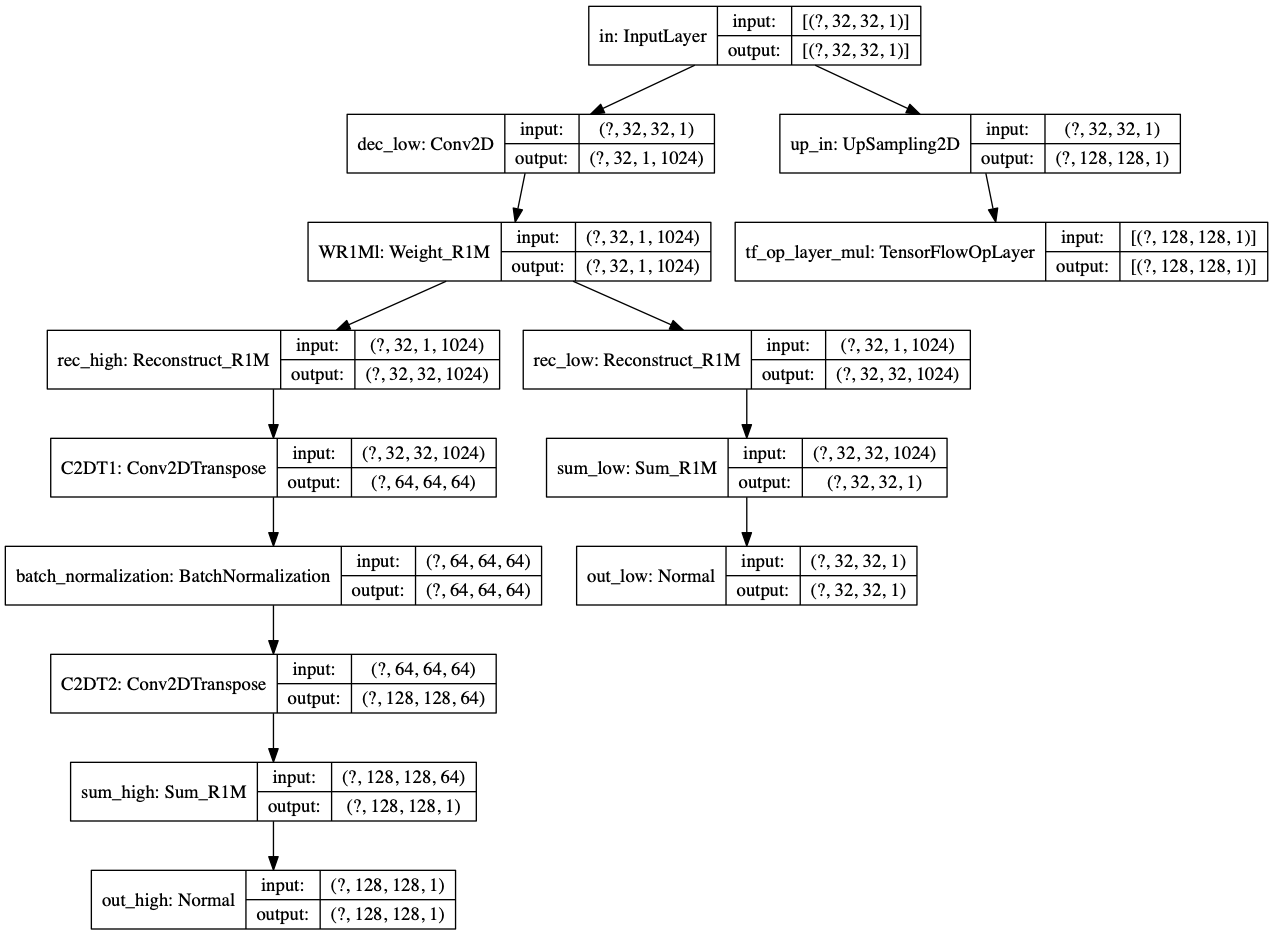
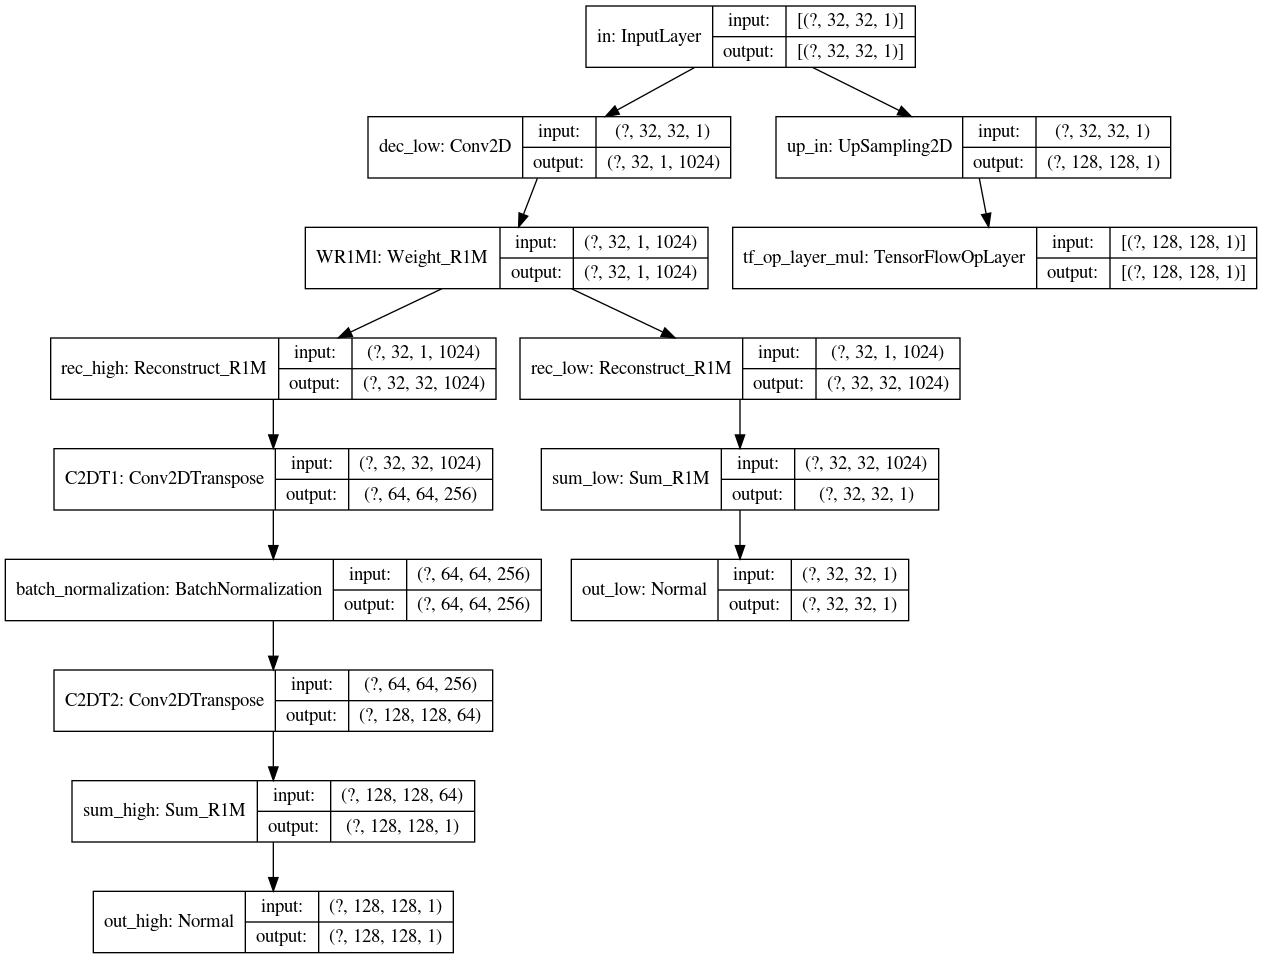
update

diff --git a/model.py b/model.py
@@ -106,18 +106,18 @@ def make_generator_model(len_low_size=16, scale=4):
     m_F = tf.constant(1/16.0, shape=(1, 1, 1, 1))
     up_o = tf.keras.layers.Multiply(name='scale_value_in')([up_o, m_F])
 
-    #up_1 = tf.keras.layers.UpSampling2D(size=(4, 1), data_format='channels_last', name='upsample_low')(WeiR1Ml)
-    #m_F = tf.constant(1/4.0, shape=(1, 1, 1, 1))
-    #up_1 = tf.keras.layers.Multiply(name='scale_value_high')([up_1, m_F])
-    Rech = Reconstruct_R1M(1024, name='rec_high')(WeiR1Ml)
-    trans_1 = tf.keras.layers.Conv2DTranspose(64, 3, strides=2,kernel_constraint=symmetry_constraints(), 
+    up_1 = tf.keras.layers.UpSampling2D(size=(2, 1), data_format='channels_last', name='upsample_low')(WeiR1Ml)
+    m_F = tf.constant(1/2.0, shape=(1, 1, 1, 1))
+    up_1 = tf.keras.layers.Multiply(name='scale_value_high')([up_1, m_F])
+    Rech = Reconstruct_R1M(1024, name='rec_high')(up_1)
+    '''trans_1 = tf.keras.layers.Conv2DTranspose(256, 5, strides=2,kernel_constraint=symmetry_constraints(), 
                                                 activation='relu', use_bias=False, name='C2DT1',
                                             padding='same')(Rech)
     batchnorm_1 = tf.keras.layers.BatchNormalization()(trans_1)
-    trans_2 = tf.keras.layers.Conv2DTranspose(64, 3, strides=2,kernel_constraint=symmetry_constraints(), 
+    trans_2 = tf.keras.layers.Conv2DTranspose(64, 5, strides=2,kernel_constraint=symmetry_constraints(), 
                                                 activation='relu', use_bias=False, name='C2DT2',
-                                            padding='same')(batchnorm_1)
-    '''paddings = tf.constant([[0,0],[1, 1], [1, 1], [0,0]])
+                                            padding='same')(batchnorm_1)'''
+    paddings = tf.constant([[0,0],[1, 1], [1, 1], [0,0]])
     Rech = tf.pad(Rech, paddings, "SYMMETRIC")
     trans_1 = tf.keras.layers.Conv2D(  filters=64, kernel_size=(3,3),
                                                 strides=(1,1), padding='valid',
@@ -125,13 +125,16 @@ def make_generator_model(len_low_size=16, scale=4):
                                                 kernel_constraint=symmetry_constraints(), 
                                                 activation='relu', use_bias=False, name='C2DT1')(Rech)
     batchnorm_1 = tf.keras.layers.BatchNormalization()(trans_1)
+    up_2 = tf.keras.layers.UpSampling2D(size=(2, 2), data_format='channels_last', name='upsample_low')(batchnorm_1)
+    m_F = tf.constant(1/4.0, shape=(1, 1, 1, 1))
+    up_2 = tf.keras.layers.Multiply(name='scale_value_high')([up_2, m_F])
     paddings = tf.constant([[0,0],[2, 2], [2, 2], [0,0]])
-    batchnorm_1 = tf.pad(batchnorm_1, paddings, "SYMMETRIC")
+    batchnorm_1 = tf.pad(up_2, paddings, "SYMMETRIC")
     trans_2 = tf.keras.layers.Conv2D(  filters=64, kernel_size=(5,5),
                                                 strides=(1,1), padding='valid',
                                                 data_format="channels_last",
                                                 kernel_constraint=symmetry_constraints(),
-                                                activation='relu', use_bias=False, name='C2DT2')(batchnorm_1)'''
+                                                activation='relu', use_bias=False, name='C2DT2')(batchnorm_1)
     
     Sumh = Sum_R1M(name='sum_high')(trans_2)
     high_out = Normal(int(len_low_size*scale), name='out_high')(Sumh)
